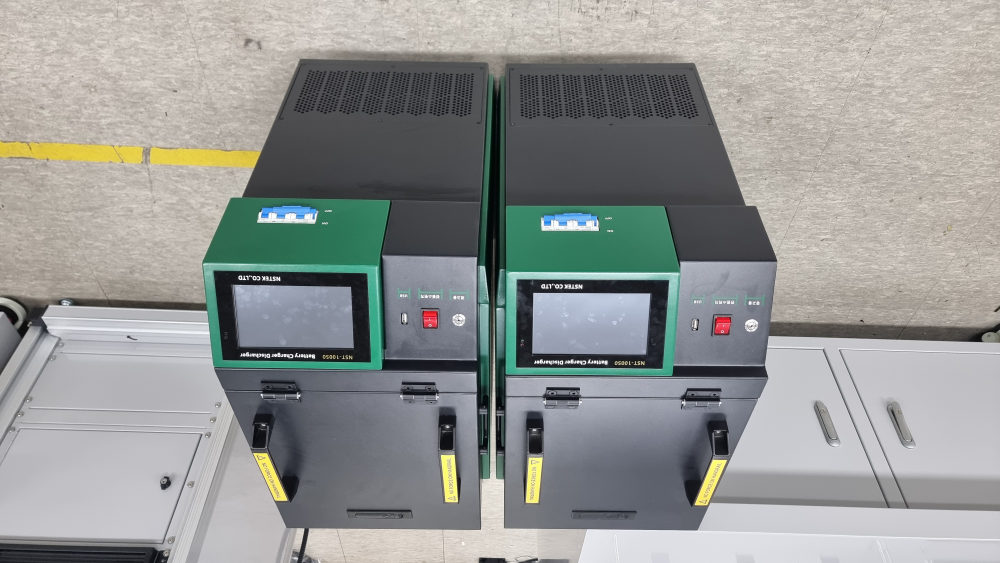
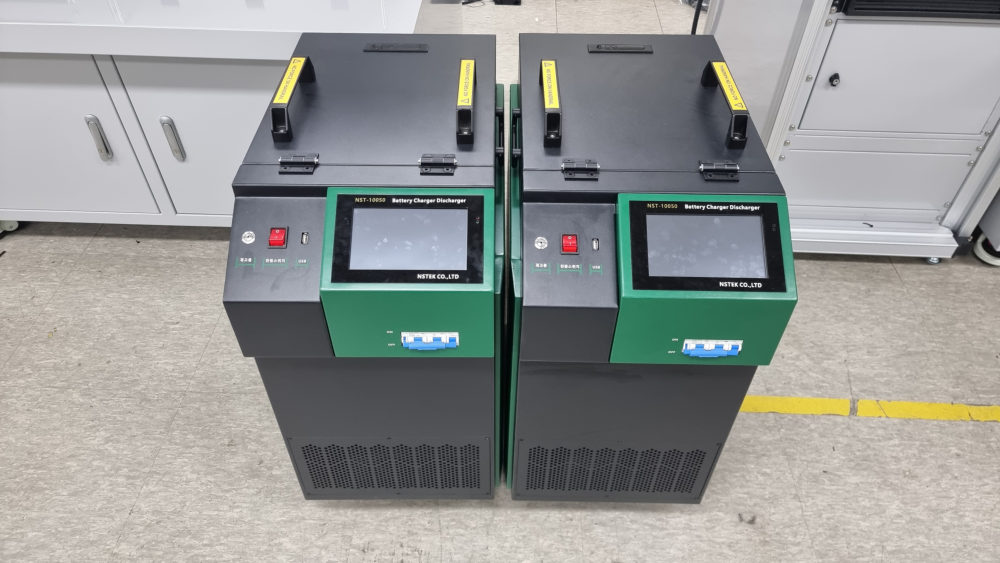
충방전기 사진 방향 수정 (EXIF 회전 정보 반영)

diff --git a/en/business.html b/en/business.html
@@ -51,7 +51,7 @@
           <p>We design, build and supply component test equipment used in the periodic maintenance of rolling stock.</p>
         <div class="grid products">
           <div class="card card-photo">
-            <img src="../images/testers/battery-charger.jpg" alt="Battery charger/discharger tester NST-10050" loading="lazy">
+            <img src="../images/testers/battery-charger.jpg?v=2" alt="Battery charger/discharger tester NST-10050" loading="lazy">
             <div class="card-body">
               <h3>Battery Charger/Discharger Tester (NST-10050)</h3>
               <p>Charges and discharges battery banks at constant current to measure their actual capacity, while wireless cell modules monitor each cell voltage in real time. It stops automatically at the set end conditions and stores all test data.</p>

diff --git a/business.html b/business.html
@@ -53,7 +53,7 @@
         <div class="grid products">
           <!-- 자사 제품: 배터리 충방전 시험기 (NST-10050 사용설명서 요약) -->
           <div class="card card-photo">
-            <img src="images/testers/battery-charger.jpg" alt="배터리 충방전 시험기 NST-10050" loading="lazy">
+            <img src="images/testers/battery-charger.jpg?v=2" alt="배터리 충방전 시험기 NST-10050" loading="lazy">
             <div class="card-body">
               <h3>배터리 충방전 시험기 (NST-10050)</h3>
               <p>축전지를 정전류로 충전·방전해 실제 용량을 시험하고, 무선 셀 모듈로 셀별 전압을 실시간 감시합니다. 설정한 종료 조건에 도달하면 자동으로 멈추고 시험 데이터를 저장합니다.</p>
